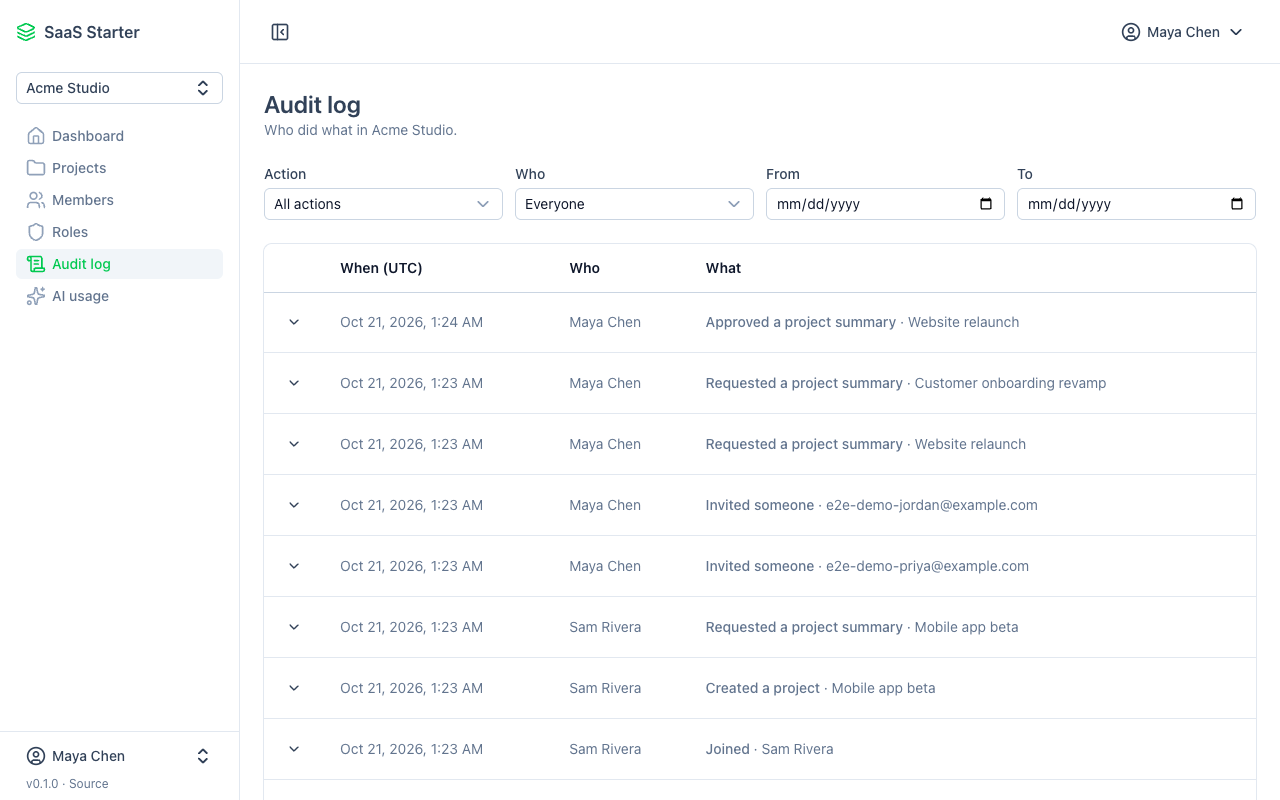
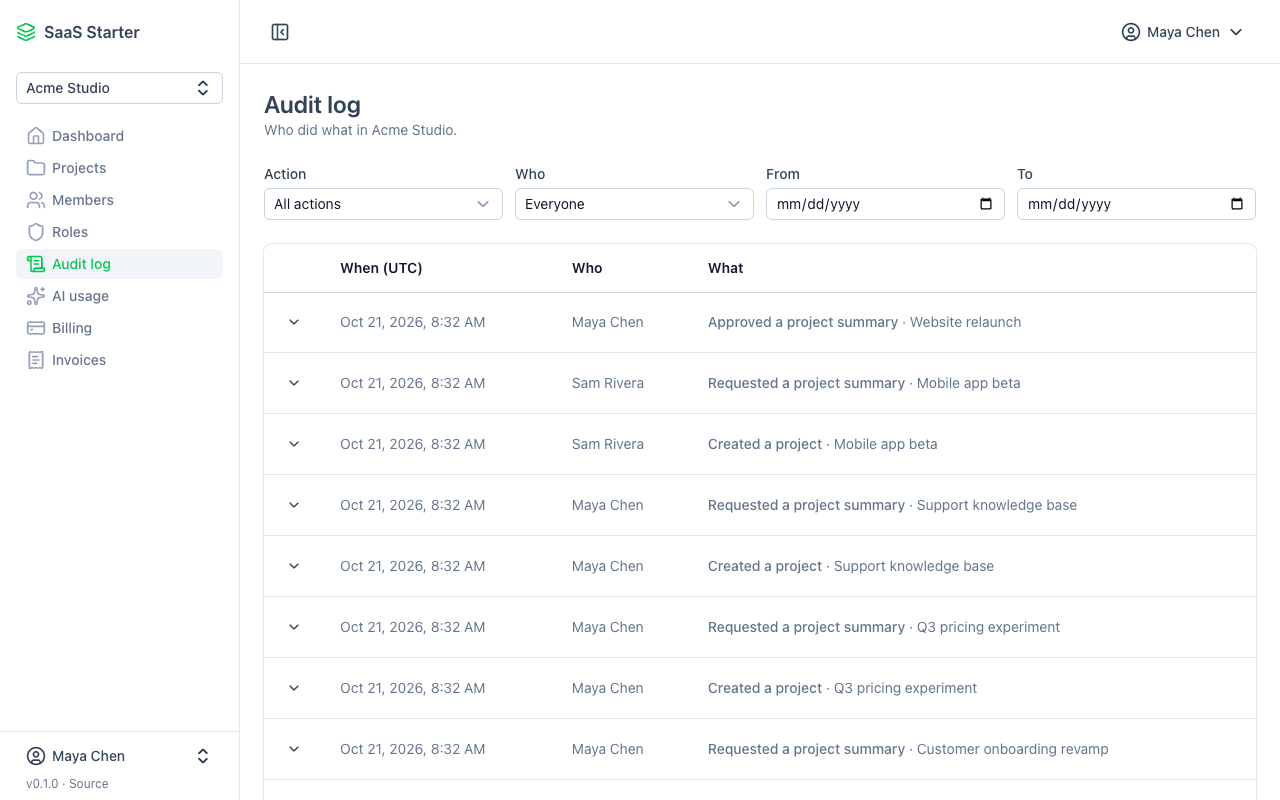
docs: retake README screenshots with the billing sidebar items
Nine shots predated the Billing and Invoices sidebar items; retaken with
plan 17's demo data (light, 1280x800, real Claude for AI content).

diff --git a/README.md b/README.md
@@ -252,7 +252,7 @@ Demo data with real Claude answers (Haiku), light mode.
 
 **Audit log** of who did what, with filters.
 
-![Audit log with project, invitation and AI summary entries](docs/screenshots/audit-log.png)
+![Audit log with project and AI summary entries](docs/screenshots/audit-log.png)
 
 **AI usage** against the monthly budget, by feature and person.
 
